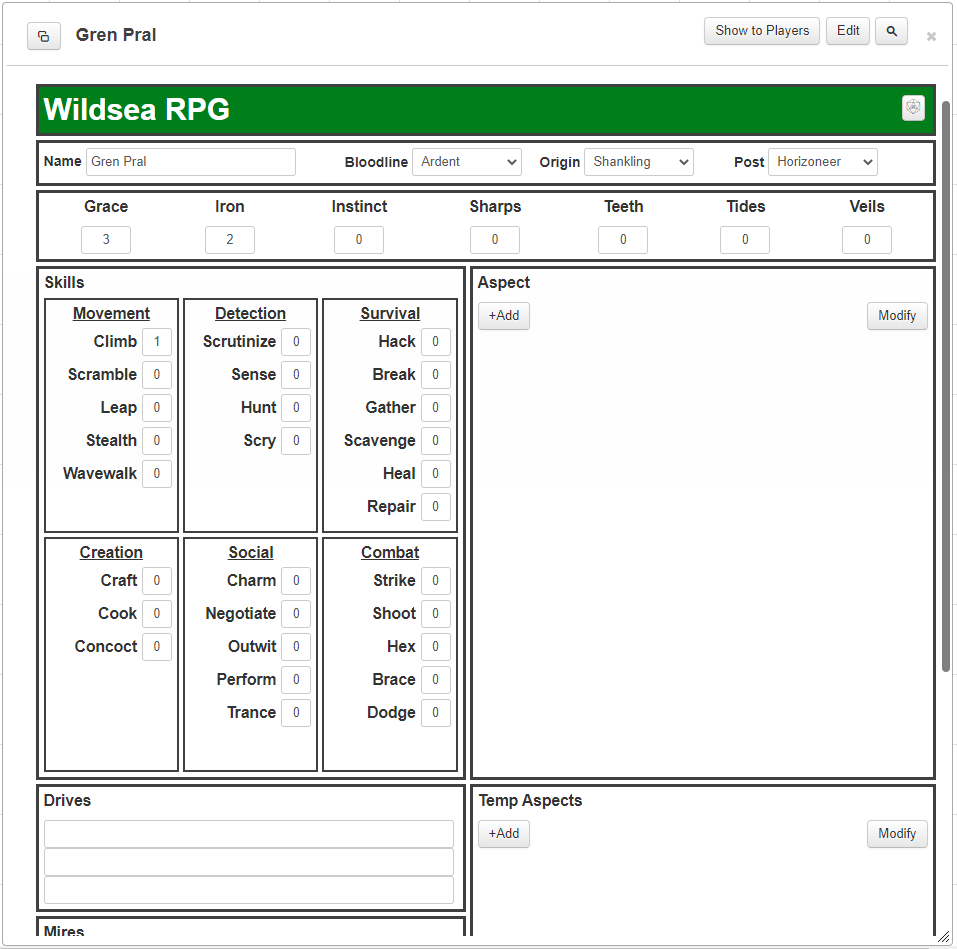
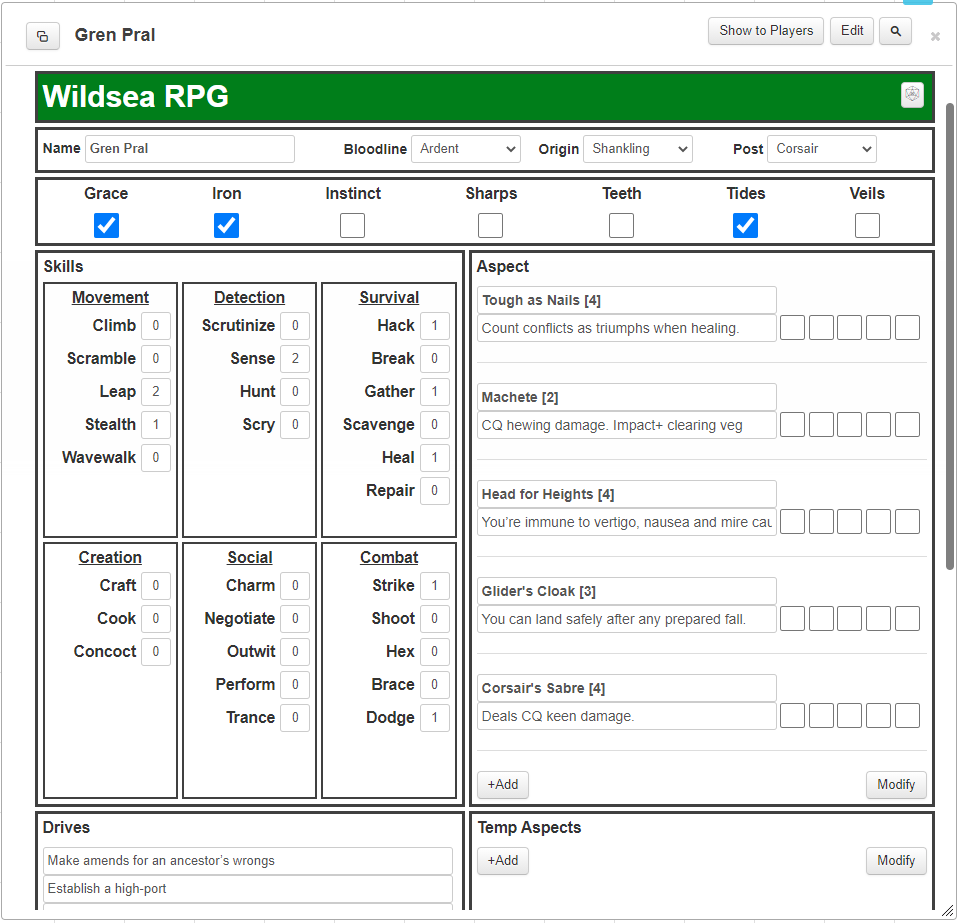
add language section, fix edges and aspects formatting, update preview

Changed region(s): [[0.0, 0.0, 1.0, 1.0], [0.7879, 0.6371, 0.8182, 0.6674], [0.7879, 0.4247, 0.8182, 0.455]]

diff --git a/wildsea.html b/wildsea.html
@@ -4,13 +4,13 @@
             <h1 style="color: white;">Wildsea RPG</h1>
         </div>
         <div class="alignRight">
-            <button type="roll" name="roll_standard" value="/roll {?{Edge?|Grace,@{grace}|Iron,@{iron}|Instinct,@{instinct}|Sharps,@{sharps}|Teeth,@{teeth}|Tides,@{tides}|Veils,@{veils}}d6 + ?{Skill? (up to 3d6)|Break,@{break}|Charm,@{charm}|Climb,@{climb}|Concoct,@{concoct}|Cook,@{cook}|Craft,@{craft}|Gather,@{gather}|Hack,@{hack}|Heal,@{heal}|Hunt,@{hunt}|Leap,@{leap}|Negotiate,@{negotiate}|Outwit,@{outwit}|Perform,@{perform}|Repair,@{repair}|Scavenge,@{scavenge}|Scramble,@{scramble}|Scrutinize,@{scrutinize}|Scry,@{scry}|Sense,@{sense}|Stealth,@{stealth}|Trance,@{trance}|Wavewalk,@{wavewalk}}d6 + ?{Advantage? (up to 2d6)|0}d6}dh?{Cut?|0}"></button>
+            <button type="roll" name="roll_standard" value="/roll {?{Edge?|None,0|Grace,1|Iron,1|Instinct,1|Sharps,1|Teeth,1|Tides,1|Veils,1}d6 + ?{Skill? (up to 3d6)|Break,@{break}|Charm,@{charm}|Climb,@{climb}|Concoct,@{concoct}|Cook,@{cook}|Craft,@{craft}|Gather,@{gather}|Hack,@{hack}|Heal,@{heal}|Hunt,@{hunt}|Leap,@{leap}|Negotiate,@{negotiate}|Outwit,@{outwit}|Perform,@{perform}|Repair,@{repair}|Scavenge,@{scavenge}|Scramble,@{scramble}|Scrutinize,@{scrutinize}|Scry,@{scry}|Sense,@{sense}|Stealth,@{stealth}|Trance,@{trance}|Wavewalk,@{wavewalk}}d6 + ?{Advantage? (up to 2d6)|0}d6}dh?{Cut?|0}"></button>
         </div>
     </div>
     
     <div class="common section">
         <div class="name sectionNoBorder">
-            <label>Name  <input type="text" name="attr_name"/></label>
+            <label>Name  <input class="bold" type="text" name="attr_name"/></label>
         </div>
         
         <div class="bloodline sectionNoBorder">
@@ -64,13 +64,13 @@
     
     
     <div class="edges section">
-        <div class="grace"><label>Grace </label><input type="number" name="attr_grace" value="0"/></div>
-        <div class="iron"><label>Iron </label><input type="number" name="attr_iron" value="0"/></div>
-        <div class="instinct"><label>Instinct </label><input type="number" name="attr_instinct" value="0"/></div>
-        <div class="sharps"><label>Sharps </label><input type="number" name="attr_sharps" value="0"/></div>
-        <div class="teeth"><label>Teeth </label><input type="number" name="attr_teeth" value="0"/></div>
-        <div class="tides"><label>Tides </label><input type="number" name="attr_tides" value="0"/></div>
-        <div class="veils"><label>Veils </label><input type="number" name="attr_veils" value="0"/></div>
+        <div class="grace"><label>Grace </label><input class="checkbox" type="checkbox" name="attr_grace"/></div>
+        <div class="iron"><label>Iron </label><input type="checkbox" name="attr_iron" value="0"/></div>
+        <div class="instinct"><label>Instinct </label><input type="checkbox" name="attr_instinct"/></div>
+        <div class="sharps"><label>Sharps </label><input type="checkbox" name="attr_sharps"/></div>
+        <div class="teeth"><label>Teeth </label><input type="checkbox" name="attr_teeth"/></div>
+        <div class="tides"><label>Tides </label><input type="checkbox" name="attr_tides"/></div>
+        <div class="veils"><label>Veils </label><input type="checkbox" name="attr_veils"/></div>
     </div>
     
     <div class="skills section">
@@ -155,6 +155,18 @@
         </div>
     </div>
     
+    <div class="lang section">
+        <label>Languages</label>
+        <input class="shorterBox" type="text" name="attr_lowSour" value="Low Sour">
+        <input type="text" name="attr_langDescription" value="A mongrel language. Common.">
+        <input type="number" name="attr_lowSour" value=3>
+        <fieldset class="repeating_lang">
+            <input class="shorterBox" type="text" name="attr_lang" placeholder="Language">
+            <input type="text" name="attr_langDescription" placeholder="Description">
+            <input type="number" name="attr_langRating">
+        </fieldset>
+    </div>
+    
     <div class="miles section">
         <label>Milestones</label>
         <div class="major sectionNoBorder">
@@ -174,24 +186,28 @@
     <div class="aspect section">
         <label>Aspect</label>
         <fieldset class="repeating_aspects">
-            <input type="text" name="attr_aspect" placeholder="Aspect">
+            <input class="bold" type="text" name="attr_aspect" placeholder="Aspect">
+            <input type="text" name="attr_aspectDescription" placeholder="Rule">
             <input type="checkbox" name="attr_aspectCharge1">
             <input type="checkbox" name="attr_aspectCharge2">
             <input type="checkbox" name="attr_aspectCharge3">
             <input type="checkbox" name="attr_aspectCharge4">
             <input type="checkbox" name="attr_aspectCharge5">
+            <hr>
         </fieldset>
     </div>
     
     <div class="temp section">
         <label>Temp Aspects</label>
         <fieldset class="repeating_tempAspects">
-            <input type="text" name="attr_aspect" placeholder="Aspect">
+            <input class="bold" type="text" name="attr_aspect" placeholder="Aspect">
+            <input type="text" name="attr_aspectDescription" placeholder="Rule">
             <input type="checkbox" name="attr_aspectCharge1">
             <input type="checkbox" name="attr_aspectCharge2">
             <input type="checkbox" name="attr_aspectCharge3">
             <input type="checkbox" name="attr_aspectCharge4">
             <input type="checkbox" name="attr_aspectCharge5">
+            <hr>
         </fieldset>
     </div>
     
@@ -226,7 +242,7 @@
     <div class="notes section">
         <label>Notes</label>
         <fieldset class="repeating_notes">
-            <input type="text" name="attr_noteTitle" placeholder="Title">
+            <input class="bold" type="text" name="attr_noteTitle" placeholder="Title">
             <input class="bigtext" type="text" name="attr_noteBody" placeholder="Note text.">
         </fieldset>
     </div>

diff --git a/wildsea.css b/wildsea.css
@@ -14,6 +14,7 @@
                         "skills  skills aspect"
                         "skills  skills aspect"
                         "drivmir drivmir temp"
+                        "lang    lang   temp"
                         "inv     inv    miles"
                         "notes   notes  notes"
                         "footer  footer footer";
@@ -123,9 +124,14 @@
     grid-template-areas:"grace iron instinct sharps teeth tides veils"
 }
 
-.sheet-edges input[type=number] {
-    width: 50px;
-    height: 50;
+.sheet-edges input[type=checkbox] {
+    width: 25px;
+    height: 25px;
+}
+
+.sheet-checkbox > input:checked {
+    border: 1px solid #41B883;
+    background-color: #34495E;
 }
 
 .sheet-grace {
@@ -185,7 +191,7 @@
 }
 
 .sheet-drives {
-    grid-area: drives
+    grid-area: drives;
 }
 
 .sheet-drives input[type=text] {
@@ -201,6 +207,14 @@
     width: 350px;
 }
 
+.sheet-lang {
+    grid-area: lang;
+}
+
+.sheet-shorterBox {
+    width: 150px;
+}
+
 /*************************/
 
 .sheet-aspect {
@@ -212,6 +226,10 @@
 .sheet-temp input[type=text] {
     width: 300px;
     font-size: 14px;
+}
+
+.sheet-bold {
+    font-weight: 700;
 }
 
 .sheet-aspect input[type=checkbox],
